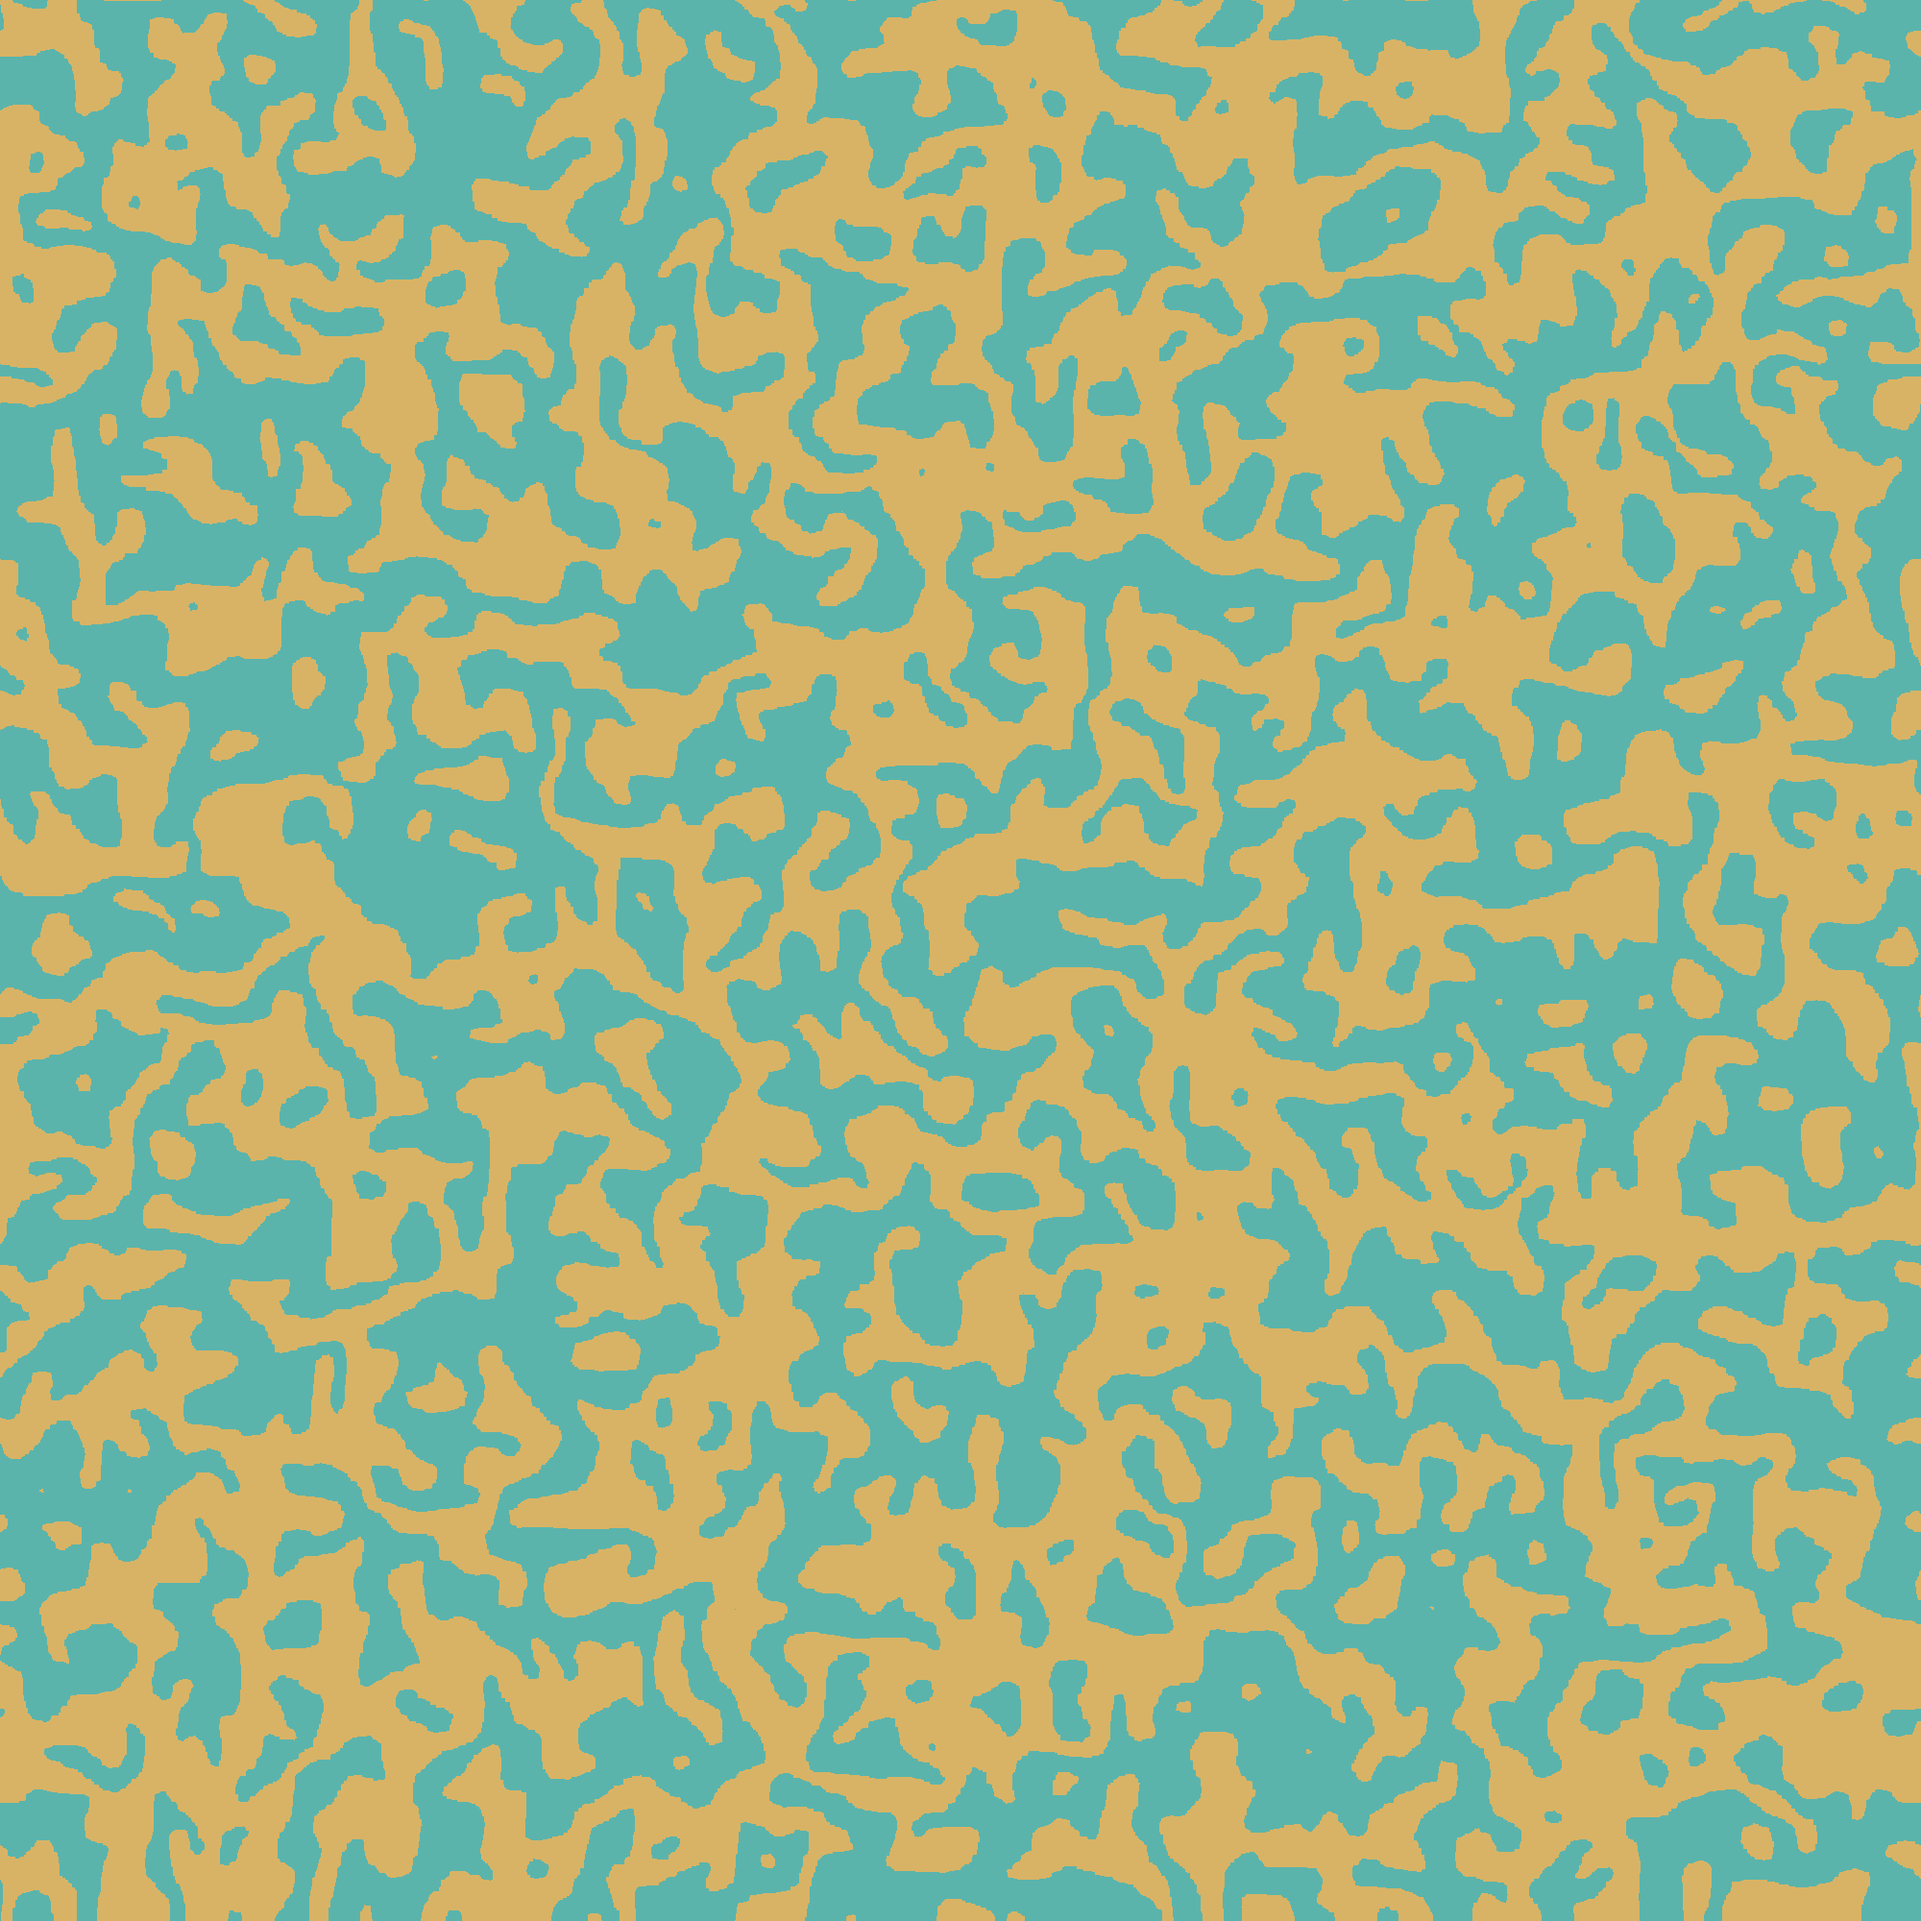
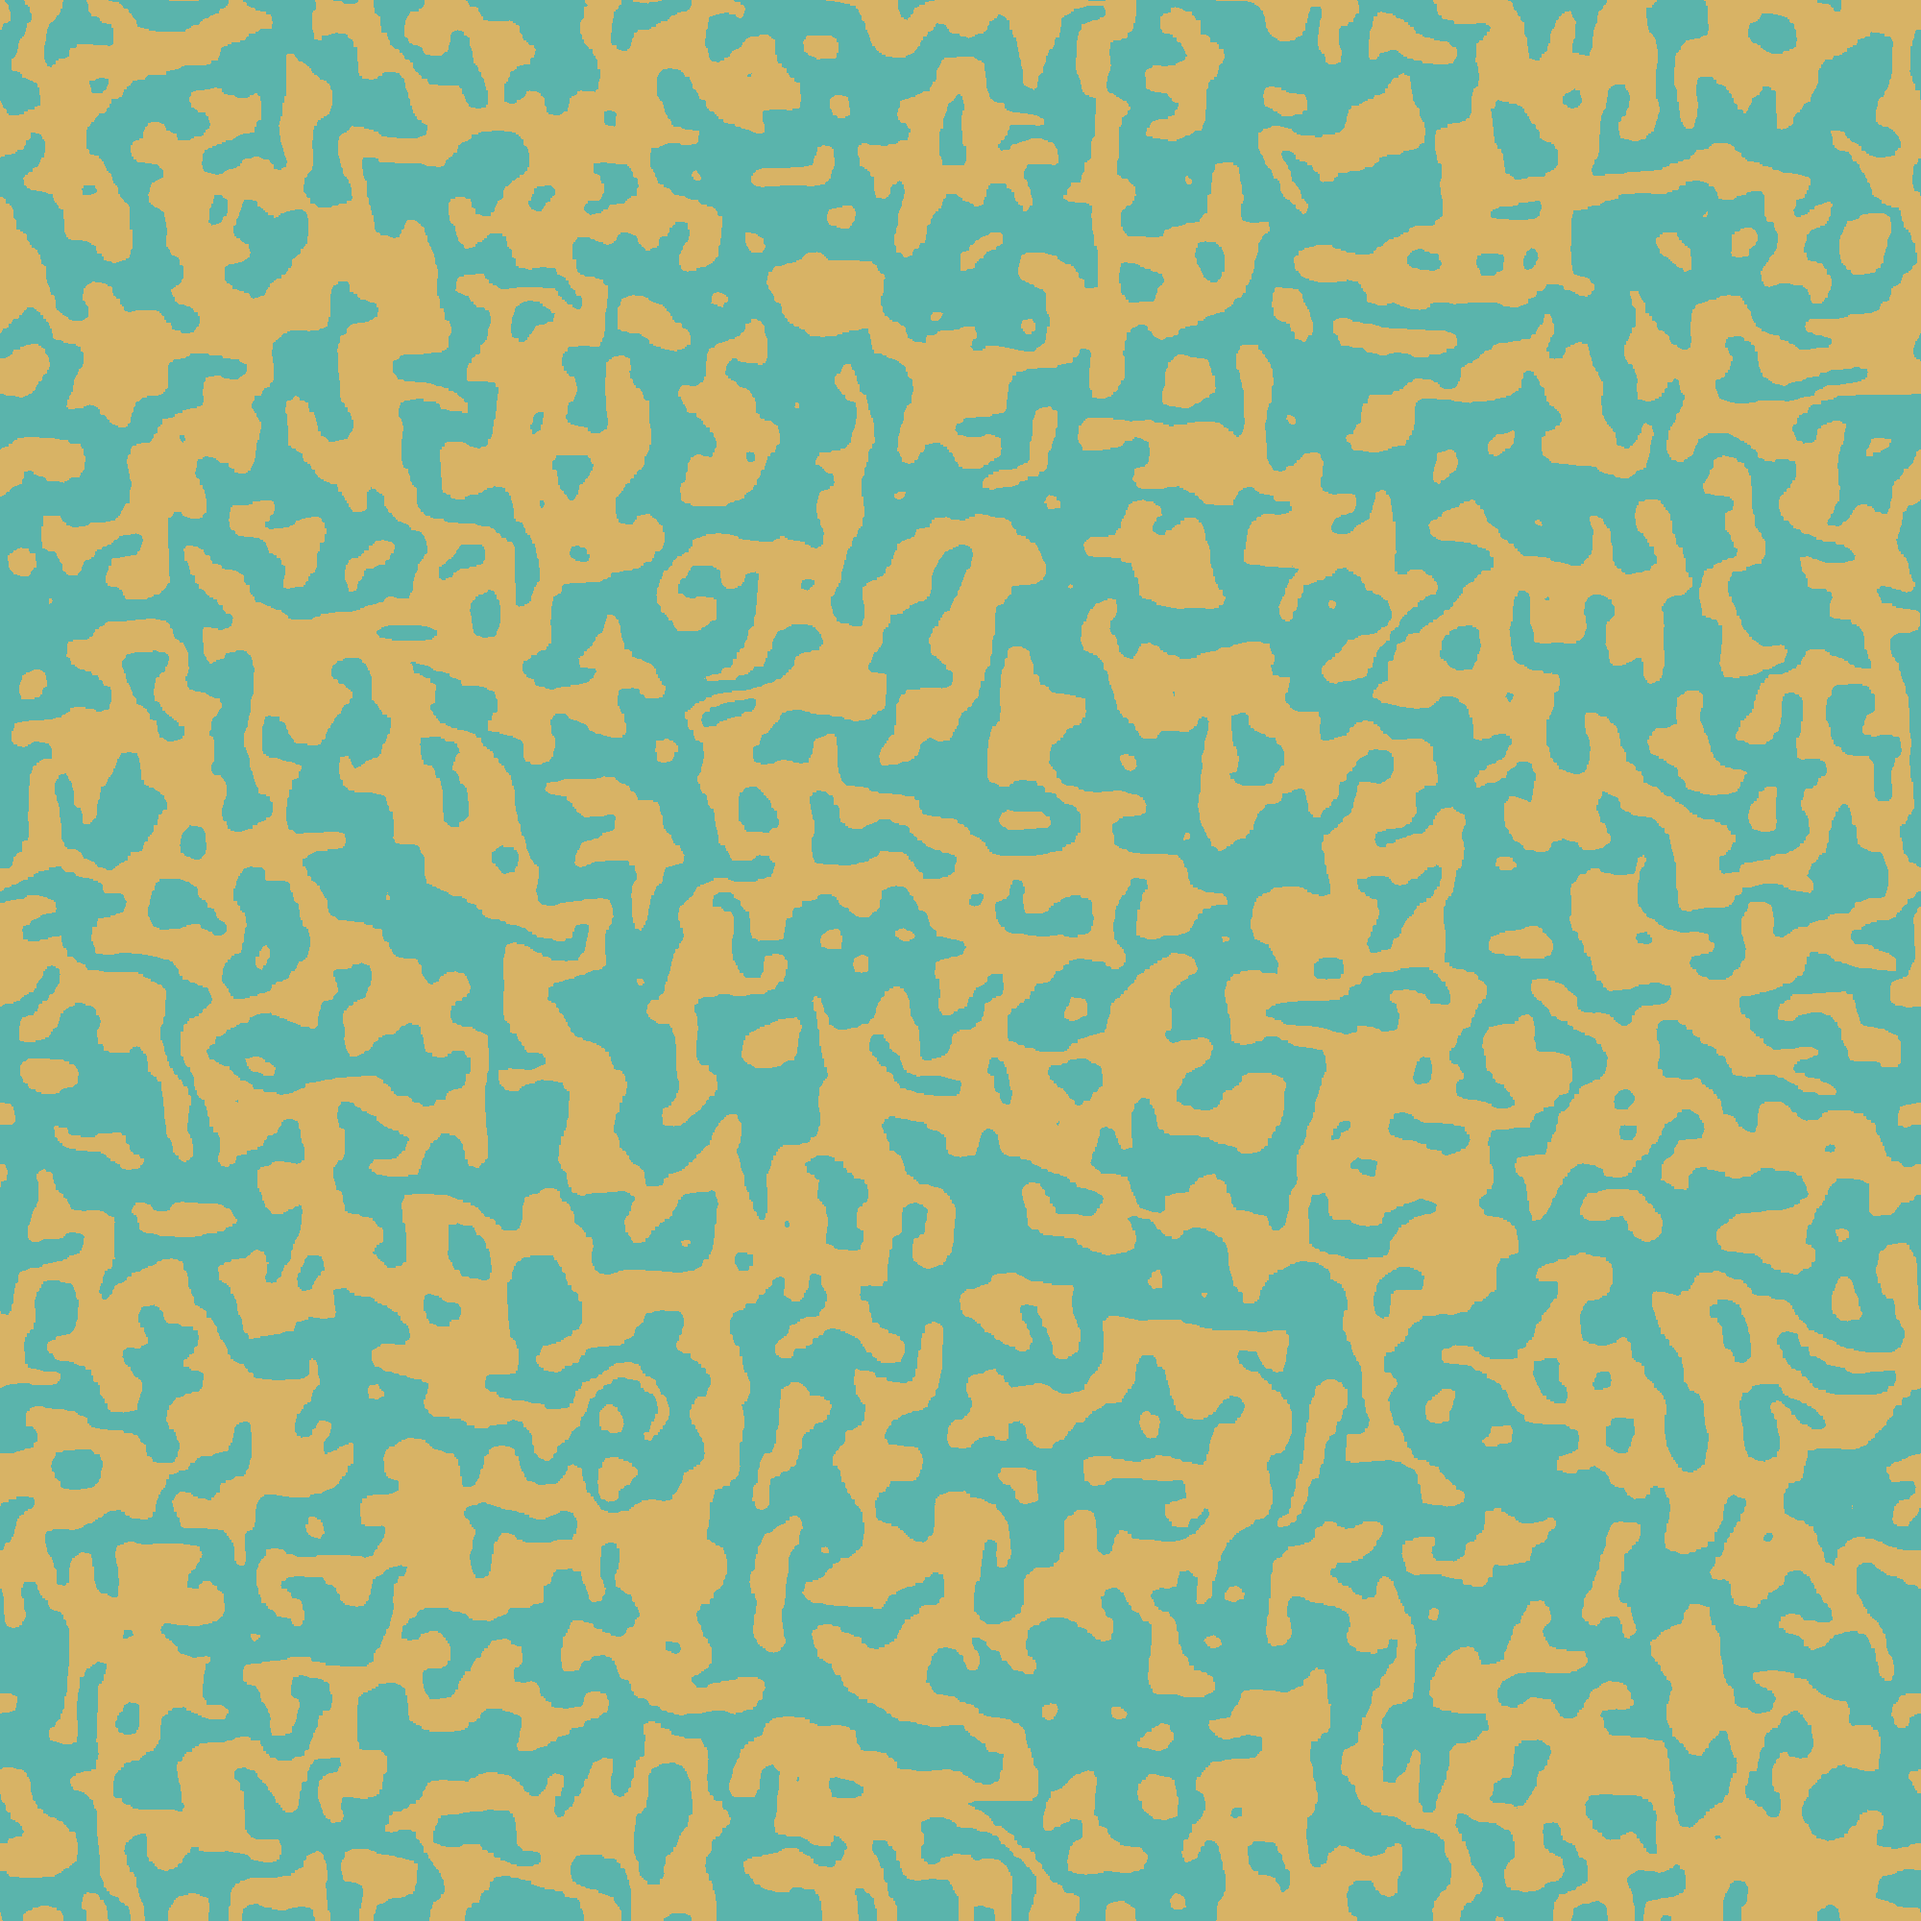
Added relative spin counter and figure and improved code clarity

diff --git a/src/ising.rs b/src/ising.rs
@@ -1,10 +1,13 @@
 use crate::consts::*;
-use crate::utils::{get_neigbors, initialize_lattice, plot, precalculate_probs};
+use crate::utils::{
+    get_neigbors, initialize_lattice, plot_count, plot_lattice, precalculate_probs,
+};
 use rand::rngs::SmallRng;
 use rand::{Rng, SeedableRng};
 
 #[inline]
 pub fn run(beta: f32, print: bool) -> () {
+    // define pseudorandom number generator
     let mut rng: SmallRng = SmallRng::from_entropy();
 
     // initialize lattice
@@ -13,38 +16,56 @@ pub fn run(beta: f32, print: bool) -> () {
     // precalculate probabilities for conditional acceptance
     let probs: [u32; 9] = precalculate_probs(beta);
 
-    plot(&arr, "t_0.png");
+    // plot initial lattice
+    plot_lattice(&arr, "t_0.png");
 
+    //// initialize counters
+    // relative spins (0 -> equal, >0 -> more positive, <0 -> more negative)
+    let mut count = vec![0i32; (STEPS + 1) as usize];
+    count[0] = arr.iter().fold(0i32, |sum, i| sum + (*i as i32));
+    // accepted flips
     let mut count_a: u64 = 0;
+    // conditionally accepted flips
     let mut count_ca: u64 = 0;
+    // rejected flips
     let mut count_r: u64 = 0;
-    for _ in 0..STEPS {
+
+    for i in 1..=STEPS {
         // randomly select lattice site
-        let i: usize = rng.gen_range(0..LEN);
+        let site: usize = rng.gen_range(0..LEN);
+        assert!(site < LEN, "Site index out of range!");
 
         // get neighbors
-        let (up, down, left, right) = get_neigbors(&i);
+        let (up, down, left, right) = get_neigbors(&site);
 
-        // calculate energy with and without flip
-        let energy_old: i8 = -J * arr[i] * (arr[up] + arr[down] + arr[left] + arr[right]);
-        // energy with flip is the negative of `energy_old`
+        // calculate energy before proposed flip
+        let energy_old: i8 = -J * arr[site] * (arr[up] + arr[down] + arr[left] + arr[right]);
 
-        // perform/reject flip
+        // accept/reject flip
         if -energy_old < 0 {
-            arr[i] *= -1;
+            count[i as usize] = count[(i as usize) - 1] + (-2 * arr[site]) as i32;
             count_a += 1;
+            arr[site] *= -1;
         } else if rng.gen::<u32>() < probs[(4 + energy_old) as usize] {
-            arr[i] *= -1;
+            count[i as usize] = count[(i as usize) - 1] + (-2 * arr[site]) as i32;
             count_ca += 1;
+            arr[site] *= -1;
         } else {
+            count[i as usize] = count[(i as usize) - 1];
             count_r += 1;
         }
     }
 
-    // Print Monte Carlo simulation stats
+    // double check spin count
+    let count_check: i32 = arr.iter().filter(|&n| *n == 1).count() as i32
+        - arr.iter().filter(|&n| *n == -1).count() as i32;
+    assert!(count[STEPS as usize] == count_check, "Count check failed!");
+
+    // print Monte Carlo simulation stats
     if print {
+        let str_count: String = format!("\nRelative count: {}\n", count[STEPS as usize]);
         let a: String = format!(
-            "\nAccepted:               {count_a} [{:.1}%]",
+            "Accepted:               {count_a} [{:.1}%]",
             100.0 * count_a as f32 / STEPS as f32
         );
         let b: String = format!(
@@ -55,13 +76,16 @@ pub fn run(beta: f32, print: bool) -> () {
             "Rejected:               {count_r} [{:.1}%]\n",
             100.0 * count_r as f32 / STEPS as f32
         );
-        let out: String = [a, b, c].join("\n");
+        let out: String = [str_count, a, b, c].join("\n");
         println!("{out}");
     }
 
-    // Save final result
+    // save final result
     let suffix: u32 = STEPS.ilog10();
     let prefix: u64 = STEPS / 10u64.pow(suffix);
     let name: String = format!("t_{prefix}e{suffix}.png");
-    plot(&arr, &name[..]);
+    plot_lattice(&arr, &name[..]);
+
+    // plot time evolution of relative spin count
+    let _ = plot_count(count, "count.png");
 }

diff --git a/src/utils.rs b/src/utils.rs
@@ -1,4 +1,5 @@
 use crate::consts::*;
+use plotters::data::float::FloatPrettyPrinter;
 use plotters::prelude::*;
 use rand::rngs::SmallRng;
 use rand::Rng;
@@ -13,7 +14,7 @@ pub fn initialize_lattice(rng: &mut SmallRng) -> [i8; LEN] {
     arr
 }
 
-pub fn plot(&arr: &[i8; LEN], name: &str) {
+pub fn plot_lattice(&arr: &[i8; LEN], name: &str) {
     let root = BitMapBackend::new(name, (NCOLS as u32, NROWS as u32)).into_drawing_area();
 
     let areas = root.split_evenly((NCOLS, NROWS));
@@ -27,11 +28,53 @@ pub fn plot(&arr: &[i8; LEN], name: &str) {
     }
 }
 
+pub fn plot_count(count: Vec<i32>, name: &str) -> Result<(), Box<dyn std::error::Error>> {
+    // plot time evolution of relative spin count
+
+    let root = BitMapBackend::new(name, (1280, 960)).into_drawing_area();
+    root.fill(&WHITE)?;
+
+    FloatPrettyPrinter {
+        allow_scientific: true,
+        min_decimal: 0,
+        max_decimal: 0,
+    };
+
+    let min_count: i32 = *count.iter().min().unwrap();
+    let max_count: i32 = *count.iter().max().unwrap();
+    let mut chart = ChartBuilder::on(&root)
+        .caption("Relative spin count", ("san-serif", 48).into_font())
+        .margin(50)
+        .x_label_area_size(5i32.percent_width())
+        .y_label_area_size(10i32.percent_height())
+        .build_cartesian_2d(0..STEPS, min_count..max_count)?;
+
+    chart
+        .configure_mesh()
+        .disable_x_mesh()
+        .disable_y_mesh()
+        .x_desc("Steps [x 100,000,000]")
+        .y_desc(">0 indicates more positive spins")
+        .axis_desc_style(("san-serif", 32))
+        .label_style(("san-serif", 24))
+        .x_label_formatter(&|x| format!("{}", x / 100_000_000))
+        .draw()?;
+
+    chart.draw_series(LineSeries::new(
+        (0..).zip(count.iter()).map(|(x, y)| (x, *y)),
+        &BLACK,
+    ))?;
+
+    root.present()
+        .expect("Unable to write count evolution to file!");
+
+    Ok(())
+}
+
 pub fn get_neigbors(&i: &usize) -> (usize, usize, usize, usize) {
     // Get neighbors using periodic boundary conditions (PBCs) if necessary
-    //
-    // `if` statements contains neighbors when applying PBC, `else` statements contain actual
-    // neighbors
+
+    // `if` statements contains neighbors from PBC, `else` for actual neighbors
     let up: usize = if i <= (NCOLS - 1) {
         i + LEN - NCOLS
     } else {

diff --git a/src/consts.rs b/src/consts.rs
@@ -1,5 +1,5 @@
 pub const NCOLS: usize = 2_000;
 pub const NROWS: usize = 2_000;
 pub const LEN: usize = NCOLS * NROWS;
-pub const STEPS: u64 = 100_000_000;
+pub const STEPS: u64 = 1_000_000_000;
 pub const J: i8 = 1;

diff --git a/src/main.rs b/src/main.rs
@@ -2,6 +2,6 @@ use ising::ising;
 
 fn main() {
     let beta: f32 = 10.0;
-    let print: bool = false;
+    let print: bool = true;
     ising::run(beta, print);
 }
